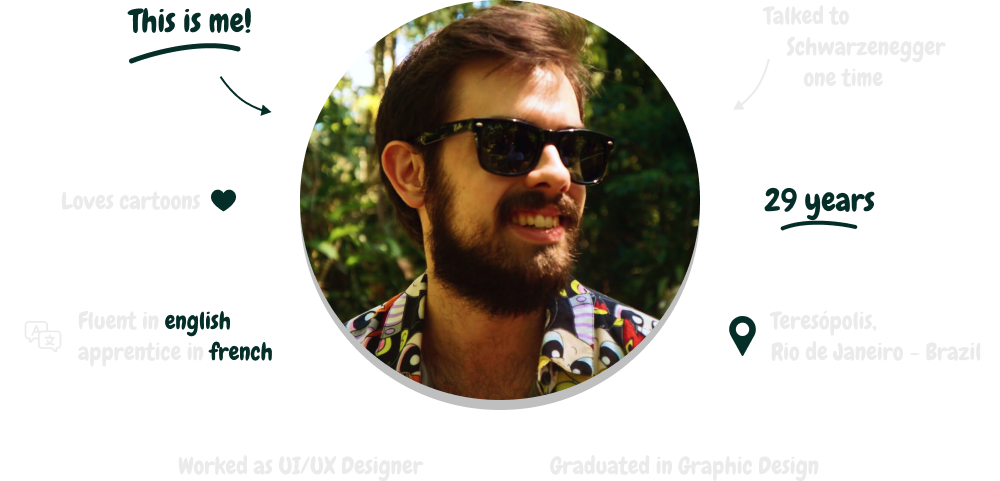
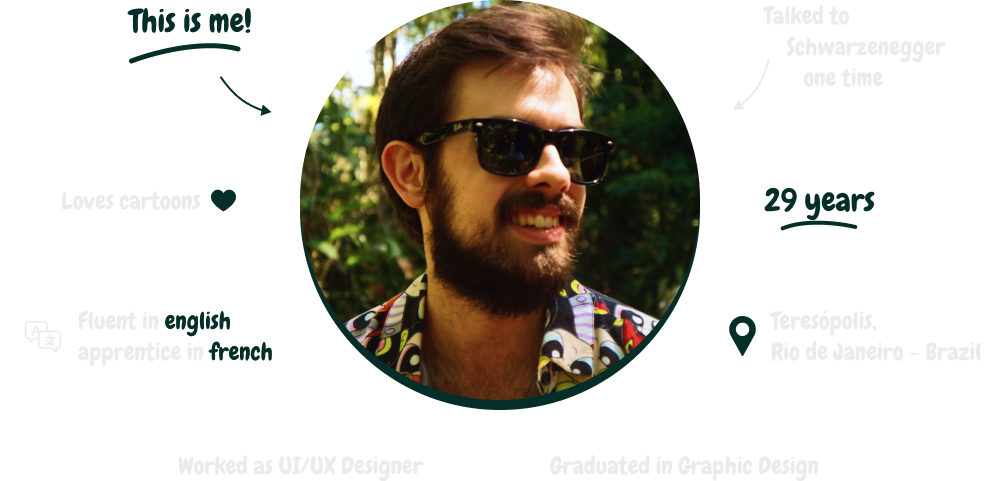
Ajuste About

diff --git a/stylesheets/style.css b/stylesheets/style.css
@@ -206,7 +206,7 @@ a:active {
           height: auto; } }
 
 .sec--about {
-  padding: 200px 0;
+  padding: 200px 0 300px;
   background-color: #0C7366; }
   .sec--about .content {
     gap: 100px; }

diff --git a/sass/style.sass b/sass/style.sass
@@ -219,7 +219,7 @@ a:active
 					width: 100%
 					height: auto
 	&--about
-		padding: 200px 0
+		padding: 200px 0 300px
 		background-color: #0C7366
 		.content
 			gap: 100px
